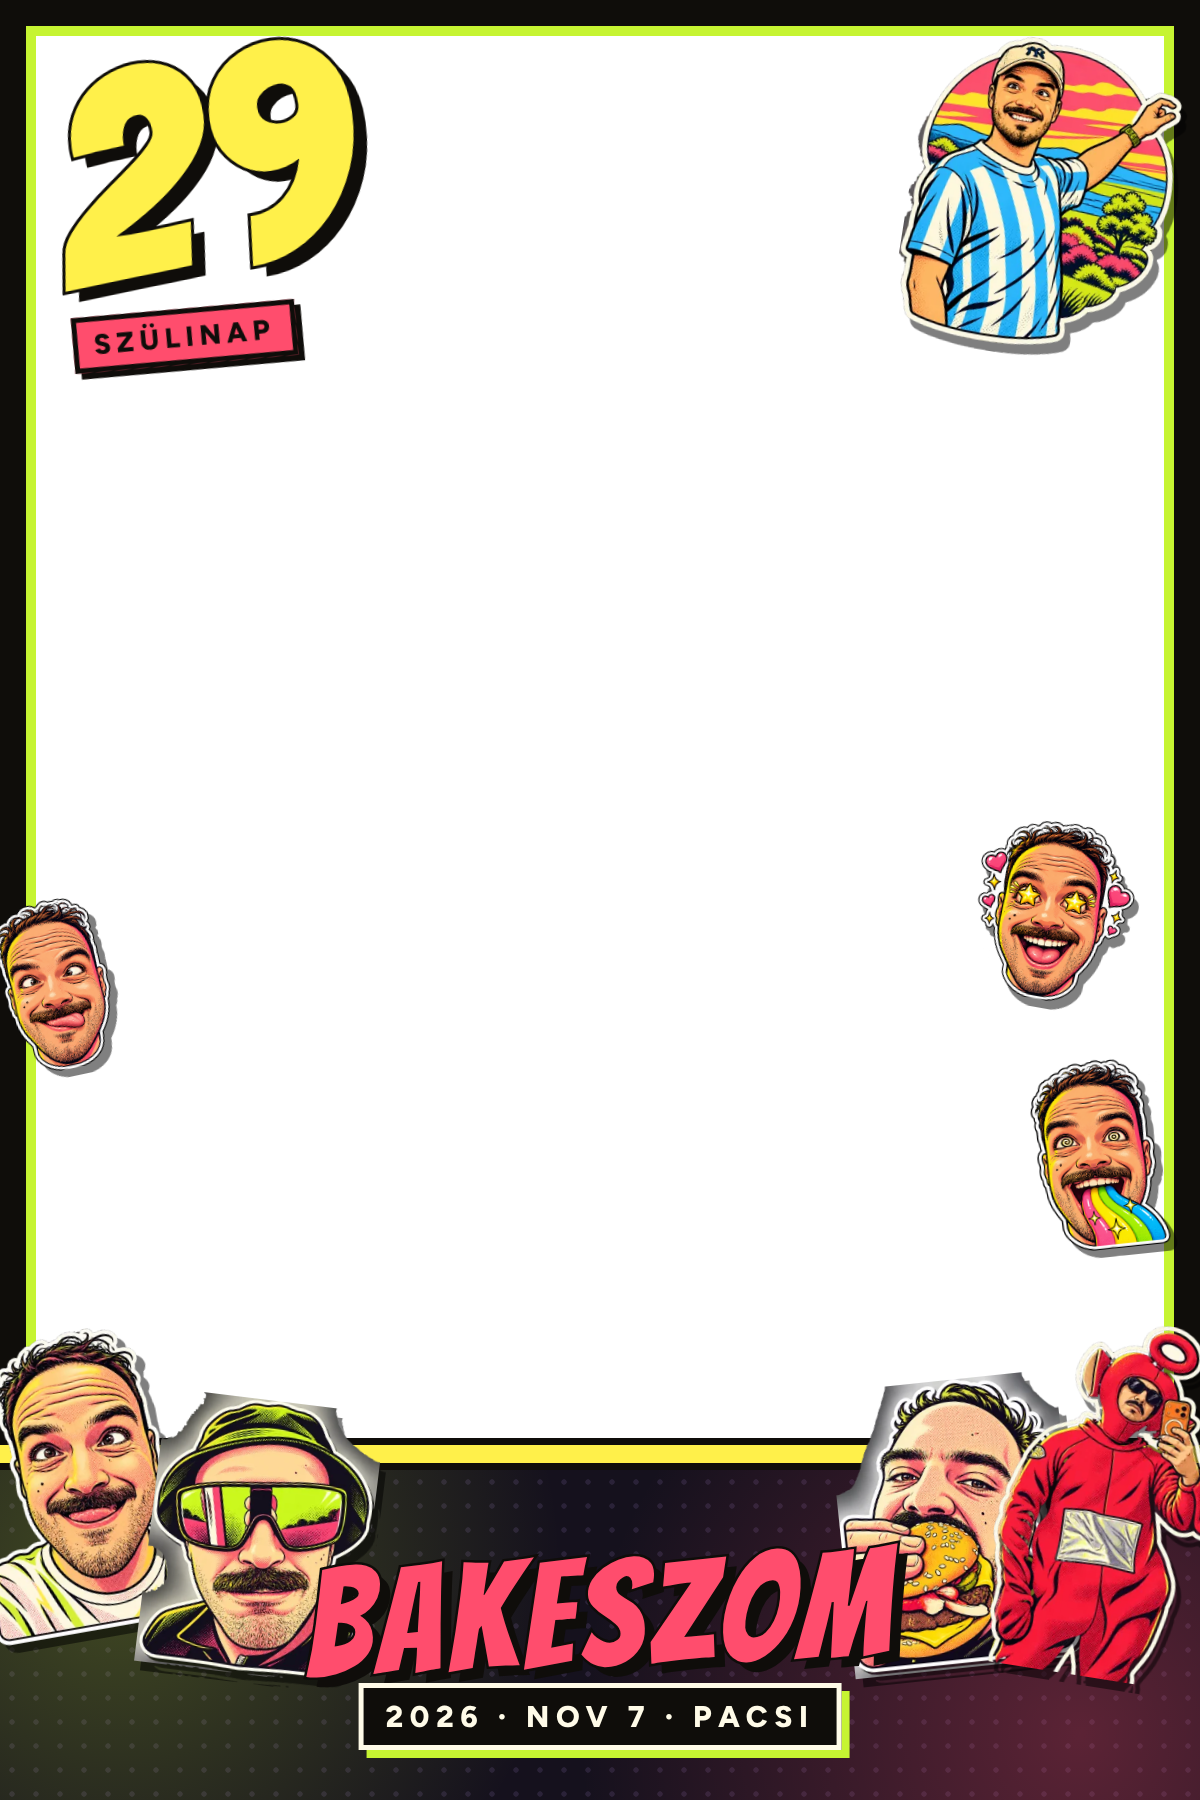
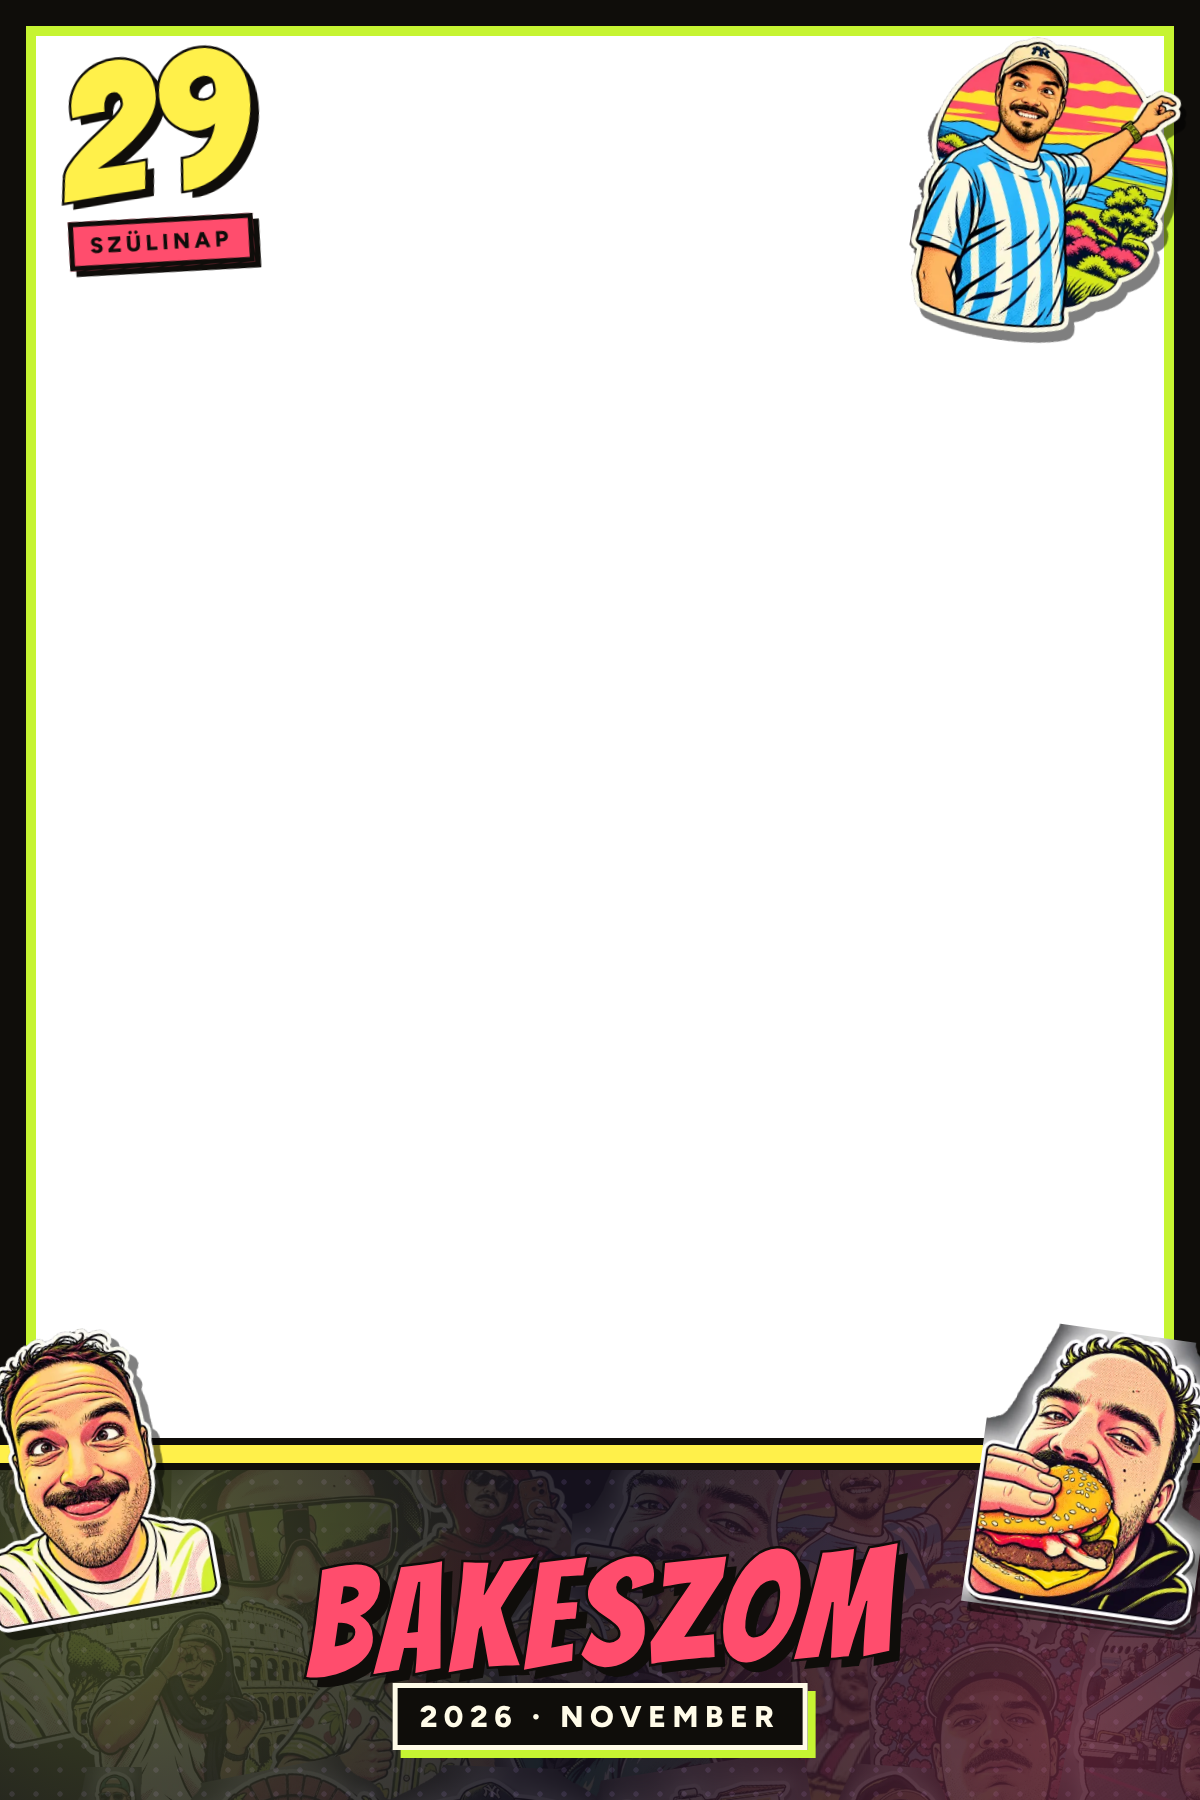
+10 matrica (adam-18…27, stk-18…27), nyitókép 6×5 rács; szelfigép-keretek v2: fejek nélkül, kisebb 29, NOVEMBER, halvány matrica-montázs az alsó sávban
Claude-Session: https://claude.ai/code/session_015SojQ3yjqSSEfb5kNKMW4T

diff --git a/szelfigep-keretek/frame.html b/szelfigep-keretek/frame.html
@@ -10,10 +10,12 @@ html,body{margin:0;background:transparent}
 /* alsó sáv */
 .band{z-index:1;position:absolute;left:0;right:0;bottom:0;height:var(--BH);background:var(--navy);
  background-image:radial-gradient(circle at 10% 30%,rgba(198,244,50,.25),transparent 40%),radial-gradient(circle at 90% 80%,rgba(255,77,109,.3),transparent 45%),radial-gradient(#2a2238 2.4px,transparent 3px);background-size:100% 100%,100% 100%,24px 24px;border-top:14px solid var(--ink)}
+.mont{position:absolute;inset:0;overflow:hidden;opacity:.12;filter:saturate(.6)}
+.mont img{position:absolute}
 .band:before{content:"";position:absolute;left:0;right:0;top:-32px;height:18px;background:var(--lemon);border-top:7px solid var(--ink);border-bottom:7px solid var(--ink)}
 .name{z-index:5;position:absolute;left:50%;transform:translateX(-50%) rotate(-2deg);bottom:var(--NB);font:var(--NS)/.9 Bangers;letter-spacing:.04em;color:var(--pop);-webkit-text-stroke:5px var(--ink);paint-order:stroke fill;text-shadow:10px 10px 0 var(--ink);white-space:nowrap}
 .sub{z-index:5;position:absolute;left:50%;transform:translateX(-50%);bottom:var(--SB);font:800 var(--SS) Figtree;letter-spacing:.22em;text-transform:uppercase;color:var(--paper);background:var(--ink);padding:10px 22px;border:5px solid var(--paper);box-shadow:8px 8px 0 var(--lime);white-space:nowrap}
-.n29{z-index:5;position:absolute;top:var(--NT);left:var(--NL);transform:rotate(-8deg);font:var(--N29)/.85 Bangers;color:var(--lemon);-webkit-text-stroke:6px var(--ink);paint-order:stroke fill;text-shadow:12px 12px 0 var(--ink)}
+.n29{z-index:5;position:absolute;top:var(--NT);left:var(--NL);transform:rotate(-6deg);font:var(--N29)/.85 Bangers;color:var(--lemon);-webkit-text-stroke:5px var(--ink);paint-order:stroke fill;text-shadow:8px 8px 0 var(--ink)}
 .n29 small{display:block;font:800 var(--N29S) Figtree;letter-spacing:.2em;color:var(--ink);background:var(--pop);padding:6px 16px;border:5px solid var(--ink);box-shadow:6px 6px 0 var(--ink);-webkit-text-stroke:0;text-shadow:none;transform:rotate(3deg);width:max-content;margin-top:8px}
 .stk{z-index:2;position:absolute;filter:drop-shadow(7px 9px 0 rgba(0,0,0,.5))}
 .hd{z-index:2;position:absolute;filter:drop-shadow(6px 8px 0 rgba(0,0,0,.5))}
@@ -23,18 +25,20 @@ const q=new URLSearchParams(location.search), W=+q.get("w"), H=+q.get("h"), P=W<
 const r=document.documentElement.style; r.setProperty("--W",W+"px"); r.setProperty("--H",H+"px");
 r.setProperty("--BH",(P?330:260)+"px"); r.setProperty("--NS",(P?150:128)+"px"); r.setProperty("--NB",(P?118:92)+"px");
 r.setProperty("--SS",(P?30:26)+"px"); r.setProperty("--SB",(P?50:36)+"px");
-r.setProperty("--N29",(P?300:240)+"px"); r.setProperty("--N29S",(P?28:24)+"px"); r.setProperty("--NT",(P?42:34)+"px"); r.setProperty("--NL",(P?54:48)+"px");
+r.setProperty("--N29",(P?190:160)+"px"); r.setProperty("--N29S",(P?22:20)+"px"); r.setProperty("--NT",(P?48:40)+"px"); r.setProperty("--NL",(P?60:52)+"px");
 const f=document.getElementById("f");
-f.innerHTML=`<div class="edge"></div><div class="band"></div>
-<div class="name">BAKESZOM</div><div class="sub">2026 · NOV 7 · PACSI</div>
+f.innerHTML=`<div class="edge"></div><div class="band"><div class="mont" id="mont"></div></div>
+<div class="name">BAKESZOM</div><div class="sub">2026 · NOVEMBER</div>
 <div class="n29">29<small>SZÜLINAP</small></div>`;
 function stk(i,x,y,w,rot){const e=document.createElement("img");e.className="stk";e.src=`stk/stk-${i}.webp`;Object.assign(e.style,{left:x+"px",top:y+"px",width:w+"px",transform:`rotate(${rot}deg)`});f.appendChild(e)}
 function hd(n,x,y,w,rot){const e=document.createElement("img");e.className="hd";e.src=`${n}.png`;Object.assign(e.style,{left:x+"px",top:y+"px",width:w+"px",transform:`rotate(${rot}deg)`});f.appendChild(e)}
-if(P){ // 1200x1800
-  stk(1,-30,H-470,240,-10); stk(2,150,H-400,220,7); stk(4,840,H-420,230,-6); stk(3,1000,H-480,230,9);
-  stk(5,W-290,40,260,9); hd("fej-4-csillogo",W-240,H-980,180,10); hd("fej-i2-nyelv",-30,H-900,170,-12); hd("fej-5-szivarvany",W-200,H-740,190,-6);
+// halvány montázs az alsó sávban: mind a 17 matrica
+const m=document.getElementById("mont"), BH=P?330:260, cols=P?6:8, cw=W/cols;
+for(let i=0;i<17;i++){const e=document.createElement("img");e.src=`stk/stk-${i+1}.webp`;const col=i%cols,row=Math.floor(i/cols);
+  Object.assign(e.style,{left:(col*cw-cw*.15+((row%2)?cw*.5:0))+"px",top:(row*(BH*.55)-BH*.2)+"px",width:(cw*1.3)+"px",transform:`rotate(${(i*37%24)-12}deg)`});m.appendChild(e)}
+if(P){ // 1200x1800 – két erős matrica a sarkokban
+  stk(1,-30,H-470,230,-10); stk(4,W-220,H-470,230,8); stk(5,W-280,40,250,9);
 }else{ // 1800x1200
-  stk(1,-30,H-410,230,-9); stk(2,170,H-350,210,5); stk(6,360,H-380,200,-6); stk(3,1260,H-390,200,7); stk(4,1440,H-350,220,-8); stk(5,1620,H-420,220,10);
-  hd("fej-4-csillogo",W-230,60,180,10); hd("fej-i2-nyelv",-20,H-720,160,-12); hd("fej-i1-kacsint",W-190,H-680,170,-6);
+  stk(1,-30,H-400,220,-9); stk(4,W-210,H-400,220,8); stk(5,W-260,40,230,10);
 }
 </script></body></html>

diff --git a/app/demo/index.html b/app/demo/index.html
@@ -26,7 +26,7 @@ window.CONFIG = {
   APP_URL: "",
 
   // Képek a szülinaposról az img/ mappából. Ha egy fájl nincs meg, helykitöltő jelenik meg.
-  PHOTOS: ["../img/adam-1.jpg","../img/adam-2.jpg","../img/adam-3.jpg","../img/adam-4.jpg","../img/adam-5.jpg","../img/adam-6.jpg","../img/adam-7.jpg","../img/adam-8.jpg","../img/adam-9.jpg","../img/adam-10.jpg","../img/adam-11.jpg","../img/adam-12.jpg","../img/adam-13.jpg","../img/adam-14.jpg","../img/adam-15.jpg","../img/adam-16.jpg","../img/adam-17.jpg"],
+  PHOTOS: ["../img/adam-1.jpg","../img/adam-2.jpg","../img/adam-3.jpg","../img/adam-4.jpg","../img/adam-5.jpg","../img/adam-6.jpg","../img/adam-7.jpg","../img/adam-8.jpg","../img/adam-9.jpg","../img/adam-10.jpg","../img/adam-11.jpg","../img/adam-12.jpg","../img/adam-13.jpg","../img/adam-14.jpg","../img/adam-15.jpg","../img/adam-16.jpg","../img/adam-17.jpg","../img/adam-18.jpg","../img/adam-19.jpg","../img/adam-20.jpg","../img/adam-21.jpg","../img/adam-22.jpg","../img/adam-23.jpg","../img/adam-24.jpg","../img/adam-25.jpg","../img/adam-26.jpg","../img/adam-27.jpg"],
 
   // Felugró ablakok: legalább ennyi percenként egy (véletlenszerűen ±)
   POPUP_MINUTES: 4
@@ -798,13 +798,13 @@ function header(back = true) {
 
 /* lebegő matricák a nyitóképen (img/stk/stk-1..17.webp) */
 function floatBoxHTML(pre) {
-  const N = 17, rnd = (a, b) => a + Math.random() * (b - a);
+  const N = 27, rnd = (a, b) => a + Math.random() * (b - a);
   // 5×4 rács, mindenki a saját cellájában lebeg, így mind látszik; a 3 üres cella véletlenszerű
-  const cells = [...Array(20).keys()].sort(() => Math.random() - .5).slice(0, N);
+  const cells = [...Array(30).keys()].sort(() => Math.random() - .5).slice(0, N);
   let h = "";
   cells.forEach((c, k) => {
-    const col = c % 5, row = Math.floor(c / 5);
-    const x = col * 20 + rnd(-2, 3), y = row * 25 + rnd(-2, 4), w = rnd(20, 24);
+    const col = c % 6, row = Math.floor(c / 6);
+    const x = col * 16.6 + rnd(-2, 3), y = row * 20 + rnd(-2, 3), w = rnd(17, 20);
     const v = `--w:${w.toFixed(1)}%;--x:${x.toFixed(1)}%;--y:${y.toFixed(1)}%;--r0:${rnd(-16, 16).toFixed(1)}deg;--r1:${rnd(-18, 18).toFixed(1)}deg;--r2:${rnd(-18, 18).toFixed(1)}deg;` +
       `--x1:${rnd(-45, 45).toFixed(0)}%;--y1:${rnd(-35, 35).toFixed(0)}%;--x2:${rnd(-45, 45).toFixed(0)}%;--y2:${rnd(-35, 35).toFixed(0)}%;--x3:${rnd(-45, 45).toFixed(0)}%;--y3:${rnd(-35, 35).toFixed(0)}%;` +
       `--dur:${rnd(5, 9).toFixed(1)}s;--delay:-${rnd(0, 9).toFixed(1)}s;z-index:${Math.round(rnd(1, 9))}`;

diff --git a/app/index.html b/app/index.html
@@ -26,7 +26,7 @@ window.CONFIG = {
   APP_URL: "",
 
   // Képek a szülinaposról az img/ mappából. Ha egy fájl nincs meg, helykitöltő jelenik meg.
-  PHOTOS: ["img/adam-1.jpg","img/adam-2.jpg","img/adam-3.jpg","img/adam-4.jpg","img/adam-5.jpg","img/adam-6.jpg","img/adam-7.jpg","img/adam-8.jpg","img/adam-9.jpg","img/adam-10.jpg","img/adam-11.jpg","img/adam-12.jpg","img/adam-13.jpg","img/adam-14.jpg","img/adam-15.jpg","img/adam-16.jpg","img/adam-17.jpg"],
+  PHOTOS: ["img/adam-1.jpg","img/adam-2.jpg","img/adam-3.jpg","img/adam-4.jpg","img/adam-5.jpg","img/adam-6.jpg","img/adam-7.jpg","img/adam-8.jpg","img/adam-9.jpg","img/adam-10.jpg","img/adam-11.jpg","img/adam-12.jpg","img/adam-13.jpg","img/adam-14.jpg","img/adam-15.jpg","img/adam-16.jpg","img/adam-17.jpg","img/adam-18.jpg","img/adam-19.jpg","img/adam-20.jpg","img/adam-21.jpg","img/adam-22.jpg","img/adam-23.jpg","img/adam-24.jpg","img/adam-25.jpg","img/adam-26.jpg","img/adam-27.jpg"],
 
   // Felugró ablakok: legalább ennyi percenként egy (véletlenszerűen ±)
   POPUP_MINUTES: 4
@@ -798,13 +798,13 @@ function header(back = true) {
 
 /* lebegő matricák a nyitóképen (img/stk/stk-1..17.webp) */
 function floatBoxHTML(pre) {
-  const N = 17, rnd = (a, b) => a + Math.random() * (b - a);
+  const N = 27, rnd = (a, b) => a + Math.random() * (b - a);
   // 5×4 rács, mindenki a saját cellájában lebeg, így mind látszik; a 3 üres cella véletlenszerű
-  const cells = [...Array(20).keys()].sort(() => Math.random() - .5).slice(0, N);
+  const cells = [...Array(30).keys()].sort(() => Math.random() - .5).slice(0, N);
   let h = "";
   cells.forEach((c, k) => {
-    const col = c % 5, row = Math.floor(c / 5);
-    const x = col * 20 + rnd(-2, 3), y = row * 25 + rnd(-2, 4), w = rnd(20, 24);
+    const col = c % 6, row = Math.floor(c / 6);
+    const x = col * 16.6 + rnd(-2, 3), y = row * 20 + rnd(-2, 3), w = rnd(17, 20);
     const v = `--w:${w.toFixed(1)}%;--x:${x.toFixed(1)}%;--y:${y.toFixed(1)}%;--r0:${rnd(-16, 16).toFixed(1)}deg;--r1:${rnd(-18, 18).toFixed(1)}deg;--r2:${rnd(-18, 18).toFixed(1)}deg;` +
       `--x1:${rnd(-45, 45).toFixed(0)}%;--y1:${rnd(-35, 35).toFixed(0)}%;--x2:${rnd(-45, 45).toFixed(0)}%;--y2:${rnd(-35, 35).toFixed(0)}%;--x3:${rnd(-45, 45).toFixed(0)}%;--y3:${rnd(-35, 35).toFixed(0)}%;` +
       `--dur:${rnd(5, 9).toFixed(1)}s;--delay:-${rnd(0, 9).toFixed(1)}s;z-index:${Math.round(rnd(1, 9))}`;

diff --git a/app/src/buliapp-forras.html b/app/src/buliapp-forras.html
@@ -22,7 +22,7 @@ window.CONFIG = {
   APP_URL: "",
 
   // Képek a szülinaposról az img/ mappából. Ha egy fájl nincs meg, helykitöltő jelenik meg.
-  PHOTOS: ["img/adam-1.jpg","img/adam-2.jpg","img/adam-3.jpg","img/adam-4.jpg","img/adam-5.jpg","img/adam-6.jpg","img/adam-7.jpg","img/adam-8.jpg","img/adam-9.jpg","img/adam-10.jpg","img/adam-11.jpg","img/adam-12.jpg","img/adam-13.jpg","img/adam-14.jpg","img/adam-15.jpg","img/adam-16.jpg","img/adam-17.jpg"],
+  PHOTOS: ["img/adam-1.jpg","img/adam-2.jpg","img/adam-3.jpg","img/adam-4.jpg","img/adam-5.jpg","img/adam-6.jpg","img/adam-7.jpg","img/adam-8.jpg","img/adam-9.jpg","img/adam-10.jpg","img/adam-11.jpg","img/adam-12.jpg","img/adam-13.jpg","img/adam-14.jpg","img/adam-15.jpg","img/adam-16.jpg","img/adam-17.jpg","img/adam-18.jpg","img/adam-19.jpg","img/adam-20.jpg","img/adam-21.jpg","img/adam-22.jpg","img/adam-23.jpg","img/adam-24.jpg","img/adam-25.jpg","img/adam-26.jpg","img/adam-27.jpg"],
 
   // Felugró ablakok: legalább ennyi percenként egy (véletlenszerűen ±)
   POPUP_MINUTES: 4
@@ -792,13 +792,13 @@ function header(back = true) {
 
 /* lebegő matricák a nyitóképen (img/stk/stk-1..17.webp) */
 function floatBoxHTML(pre) {
-  const N = 17, rnd = (a, b) => a + Math.random() * (b - a);
+  const N = 27, rnd = (a, b) => a + Math.random() * (b - a);
   // 5×4 rács, mindenki a saját cellájában lebeg, így mind látszik; a 3 üres cella véletlenszerű
-  const cells = [...Array(20).keys()].sort(() => Math.random() - .5).slice(0, N);
+  const cells = [...Array(30).keys()].sort(() => Math.random() - .5).slice(0, N);
   let h = "";
   cells.forEach((c, k) => {
-    const col = c % 5, row = Math.floor(c / 5);
-    const x = col * 20 + rnd(-2, 3), y = row * 25 + rnd(-2, 4), w = rnd(20, 24);
+    const col = c % 6, row = Math.floor(c / 6);
+    const x = col * 16.6 + rnd(-2, 3), y = row * 20 + rnd(-2, 3), w = rnd(17, 20);
     const v = `--w:${w.toFixed(1)}%;--x:${x.toFixed(1)}%;--y:${y.toFixed(1)}%;--r0:${rnd(-16, 16).toFixed(1)}deg;--r1:${rnd(-18, 18).toFixed(1)}deg;--r2:${rnd(-18, 18).toFixed(1)}deg;` +
       `--x1:${rnd(-45, 45).toFixed(0)}%;--y1:${rnd(-35, 35).toFixed(0)}%;--x2:${rnd(-45, 45).toFixed(0)}%;--y2:${rnd(-35, 35).toFixed(0)}%;--x3:${rnd(-45, 45).toFixed(0)}%;--y3:${rnd(-35, 35).toFixed(0)}%;` +
       `--dur:${rnd(5, 9).toFixed(1)}s;--delay:-${rnd(0, 9).toFixed(1)}s;z-index:${Math.round(rnd(1, 9))}`;
